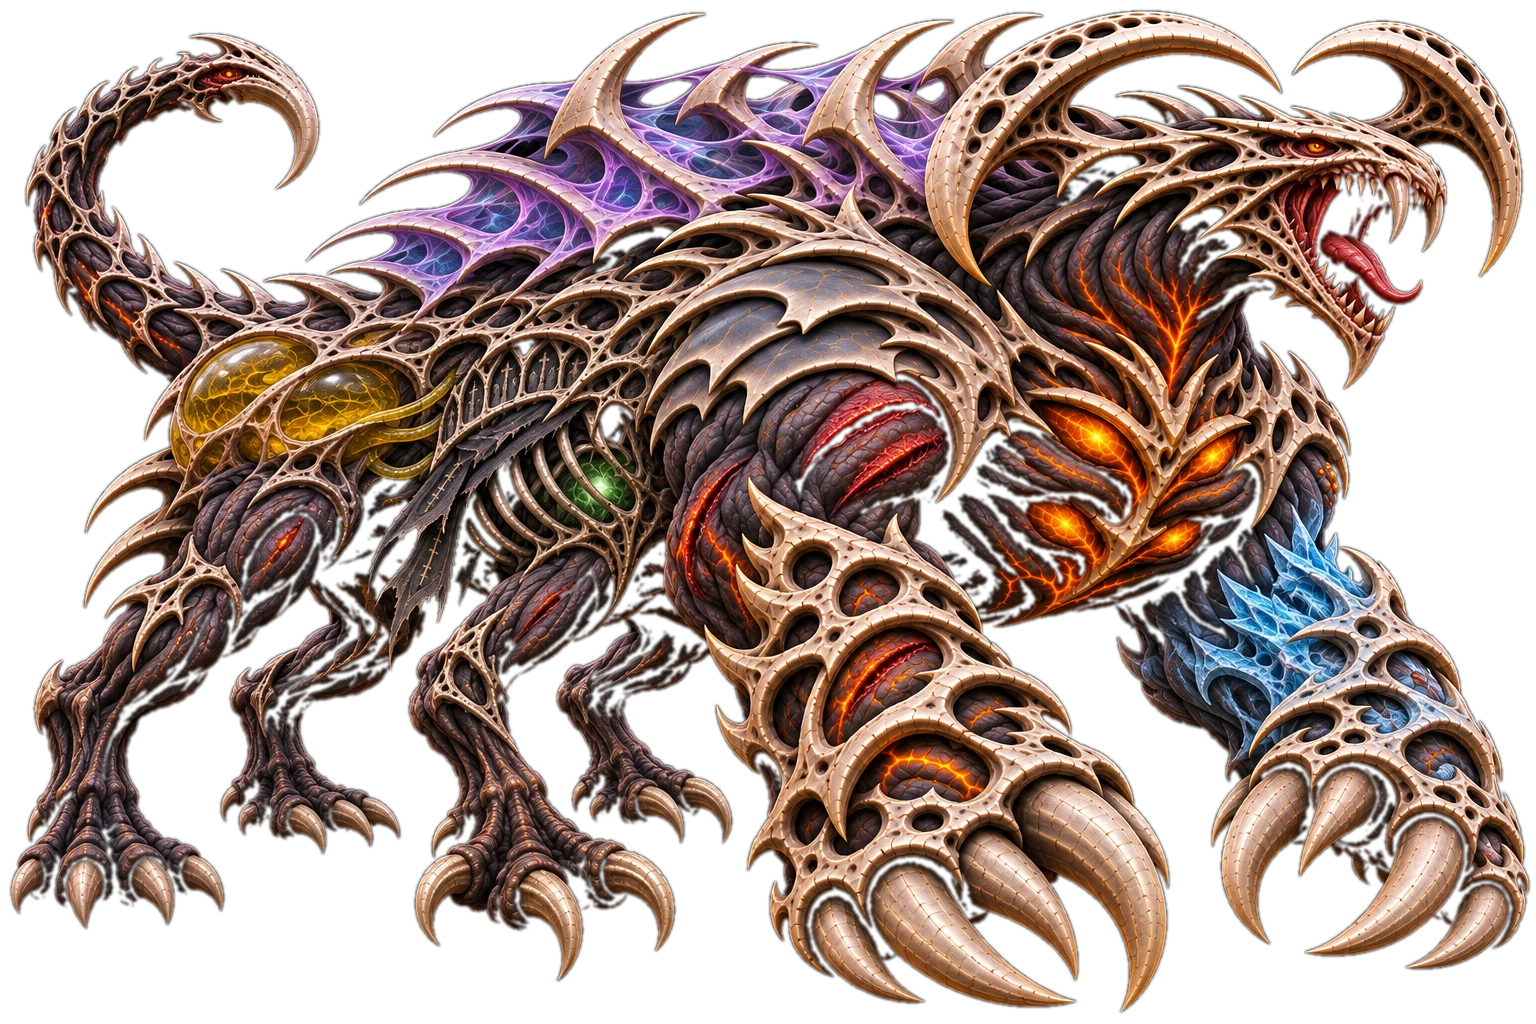
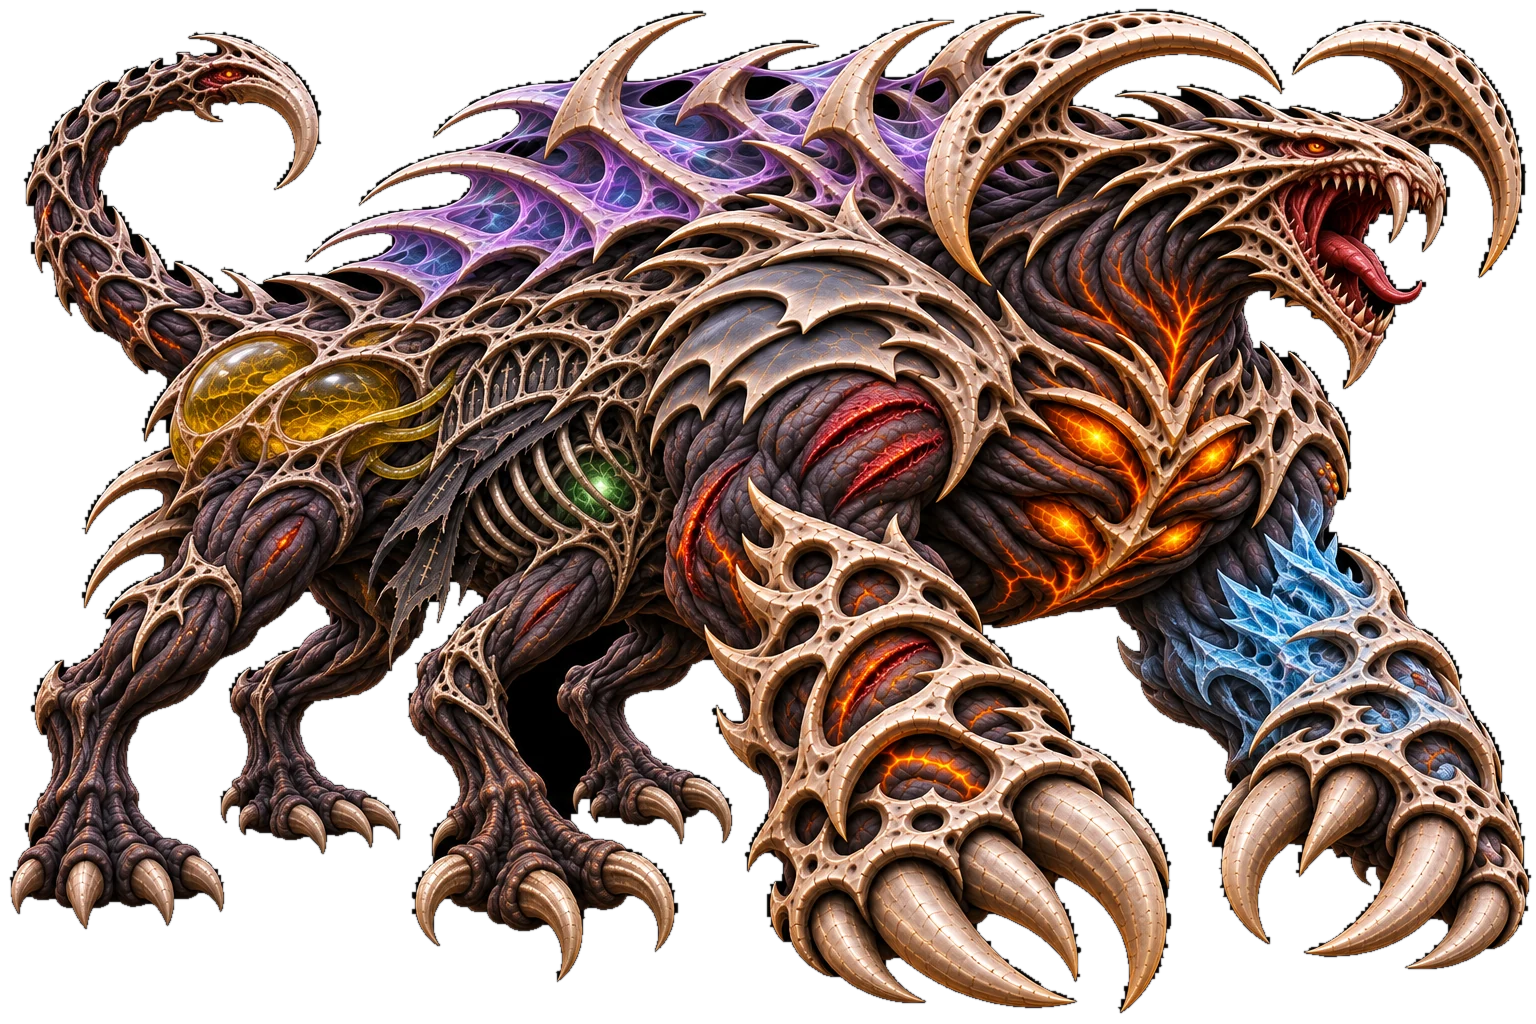
Preserve interior shadows in all twelve Brute portraits

diff --git a/table/battle-brute-hybrid-art.js b/table/battle-brute-hybrid-art.js
@@ -3,18 +3,18 @@
 const frenzied = 'brute-stage2-frenzied', ironhide = 'brute-stage2-ironhide', oppressor = 'brute-stage2-oppressor';
 const variants = [
   // Stage 3, variant, qualifying influence, canvas, measured alpha >= 128 bounds
-  ['oppressor', 'warped', { family: 'warped' }, [1536, 1024], [14, 4, 1531, 1017]],
-  ['oppressor', 'predator', { family: 'predator' }, [1536, 1024], [14, 5, 1523, 1015]],
-  ['oppressor', 'sibling', { artworks: [frenzied, ironhide] }, [1536, 1024], [17, 4, 1522, 1016]],
-  ['oppressor', 'ultimate', null, [1536, 1024], [11, 11, 1529, 1011]],
-  ['colossus', 'warped', { family: 'warped' }, [1536, 1024], [39, 19, 1494, 1008]],
-  ['colossus', 'predator', { family: 'predator' }, [1536, 1024], [19, 16, 1522, 1007]],
-  ['colossus', 'sibling', { artworks: [oppressor, frenzied] }, [1536, 1024], [38, 19, 1495, 1010]],
-  ['colossus', 'ultimate', null, [1536, 1024], [16, 14, 1526, 1015]],
-  ['ravager', 'warped', { family: 'warped' }, [1536, 1024], [14, 15, 1529, 1021]],
-  ['ravager', 'predator', { family: 'predator' }, [1774, 887], [10, 6, 1759, 887]],
-  ['ravager', 'sibling', { artworks: [oppressor, ironhide] }, [1536, 1024], [8, 12, 1533, 1020]],
-  ['ravager', 'ultimate', null, [1536, 1024], [26, 15, 1515, 984]],
+  ['oppressor', 'warped', { family: 'warped' }, [1536, 1024], [10, 2, 1534, 1017]],
+  ['oppressor', 'predator', { family: 'predator' }, [1536, 1024], [12, 0, 1526, 1016]],
+  ['oppressor', 'sibling', { artworks: [frenzied, ironhide] }, [1536, 1024], [16, 2, 1525, 1017]],
+  ['oppressor', 'ultimate', null, [1536, 1024], [10, 9, 1531, 1013]],
+  ['colossus', 'warped', { family: 'warped' }, [1536, 1024], [37, 17, 1495, 1009]],
+  ['colossus', 'predator', { family: 'predator' }, [1536, 1024], [16, 15, 1524, 1008]],
+  ['colossus', 'sibling', { artworks: [oppressor, frenzied] }, [1536, 1024], [37, 16, 1498, 1010]],
+  ['colossus', 'ultimate', null, [1536, 1024], [16, 12, 1527, 1016]],
+  ['ravager', 'warped', { family: 'warped' }, [1536, 1024], [13, 14, 1532, 1023]],
+  ['ravager', 'predator', { family: 'predator' }, [1774, 887], [7, 5, 1762, 887]],
+  ['ravager', 'sibling', { artworks: [oppressor, ironhide] }, [1536, 1024], [8, 10, 1536, 1023]],
+  ['ravager', 'ultimate', null, [1536, 1024], [25, 13, 1519, 987]],
 ];
 
 export const BRUTE_HYBRID_ART = variants.map(([form, variant, influence, [width, height], bounds]) => {

diff --git a/scripts/matte-opaque-art.py b/scripts/matte-opaque-art.py
@@ -15,6 +15,7 @@ size, and its silhouette (alpha >= 128) is printed for the registry.
 Usage (Pillow required): python3 scripts/matte-opaque-art.py <source> <destination.webp> [threshold]
 """
 
+import argparse
 import sys
 
 from PIL import Image, ImageChops, ImageDraw, ImageFilter, ImageOps
@@ -58,6 +59,28 @@ def matte(source: Image.Image, threshold: int = 22) -> Image.Image:
     return result
 
 
+def outline_matte(source: Image.Image, openings: list[tuple[int, int]]) -> Image.Image:
+    """Remove the black field and hand-identified openings of a dark-bodied creature."""
+    rgb = source.convert("RGB")
+    red, green, blue = rgb.split()
+    brightest = ImageChops.lighter(red, ImageChops.lighter(green, blue))
+    field = brightest.point(lambda value: 255 if value <= 6 else 0)
+    # Shrink before filling so a narrow crease cannot connect the field to the muscles.
+    frame = ImageOps.expand(field, border=4, fill=255)
+    core = frame.filter(ImageFilter.MinFilter(7))
+    ImageDraw.floodfill(core, (0, 0), BACKGROUND)
+    for x, y in openings:
+        seed = (x + 4, y + 4)
+        if not (0 <= x < rgb.width and 0 <= y < rgb.height) or core.getpixel(seed) != 255:
+            raise ValueError(f"opening {(x, y)} must lie inside an enclosed black field")
+        ImageDraw.floodfill(core, seed, BACKGROUND)
+    selected = core.point(lambda value: 255 if value == BACKGROUND else 0)
+    field = selected.filter(ImageFilter.MaxFilter(7)).crop((4, 4, rgb.width + 4, rgb.height + 4))
+    alpha = ImageOps.invert(field).filter(ImageFilter.GaussianBlur(0.65))
+    rgb.putalpha(alpha)
+    return rgb
+
+
 def silhouette(image: Image.Image) -> tuple[int, int, int, int]:
     box = image.getchannel("A").point(lambda value: 255 if value >= 128 else 0).getbbox()
     if box is None:
@@ -66,9 +89,18 @@ def silhouette(image: Image.Image) -> tuple[int, int, int, int]:
 
 
 def main(arguments: list[str]) -> None:
-    source, destination = arguments[0], arguments[1]
-    threshold = int(arguments[2]) if len(arguments) > 2 else 22
-    result = matte(Image.open(source), threshold)
+    parser = argparse.ArgumentParser(description=__doc__)
+    parser.add_argument("source")
+    parser.add_argument("destination")
+    parser.add_argument("threshold", type=int, nargs="?", default=22)
+    parser.add_argument("--outline", action="store_true", help="preserve enclosed shadows on a black master")
+    parser.add_argument("--opening", type=int, nargs=2, action="append", default=[], metavar=("X", "Y"))
+    args = parser.parse_args(arguments)
+    if args.opening and not args.outline:
+        parser.error("--opening requires --outline")
+    destination = args.destination
+    with Image.open(args.source) as source:
+        result = outline_matte(source, args.opening) if args.outline else matte(source, args.threshold)
     result.save(destination, "WEBP", quality=88, method=6, alpha_quality=100)
     left, top, right, bottom = silhouette(result)
     print(f"{destination} {result.width}x{result.height} bounds [{left}, {top}, {right}, {bottom}]")

diff --git a/scripts/check-brute-portrait-alpha.py b/scripts/check-brute-portrait-alpha.py
@@ -1,0 +1,41 @@
+"""Check the alpha of known muscle shadows and openings in the shipped Brute WebPs."""
+
+from pathlib import Path
+
+from PIL import Image
+
+PORTRAITS = Path(__file__).resolve().parents[1] / "table/battle-art/evolutions/hybrids"
+
+# Coordinates on the approved masters. These dark body samples disappeared in the first export.
+# The optional openings show the battlefield through a gap enclosed by legs or horns.
+SAMPLES = [
+    ("oppressor-warped", (444, 566), [(1134, 62), (1356, 80)]),
+    ("oppressor-predator", (572, 545), []),
+    ("oppressor-sibling", (412, 579), []),
+    ("oppressor-ultimate", (934, 532), []),
+    ("colossus-warped", (1099, 636), [(763, 757)]),
+    ("colossus-predator", (403, 618), []),
+    ("colossus-sibling", (511, 447), [(765, 762)]),
+    ("colossus-ultimate", (415, 560), [(823, 797), (470, 757)]),
+    ("ravager-warped", (809, 629), []),
+    ("ravager-predator", (1259, 472), [(1319, 664)]),
+    ("ravager-sibling", (1046, 568), []),
+    ("ravager-ultimate", (1098, 506), []),
+]
+
+
+def check() -> None:
+    for name, shadow, openings in SAMPLES:
+        with Image.open(PORTRAITS / f"brute-{name}.webp") as image:
+            alpha = image.getchannel("A")
+            samples = [(shadow, 255), ((1, 1), 0)]
+            samples.extend((point, 0) for point in openings)
+            for point, expected in samples:
+                x, y = point
+                values = alpha.crop((x - 1, y - 1, x + 2, y + 2)).getextrema()
+                if values != (expected, expected):
+                    raise ValueError(f"{name} at {point}: expected alpha {expected}, found {values}")
+
+
+if __name__ == "__main__":
+    check()

diff --git a/docs/art/brute-hybrid-aaa-intake.md b/docs/art/brute-hybrid-aaa-intake.md
@@ -21,3 +21,14 @@ breaks ties within a rank. A creature with only the prerequisite line displays i
 The Ravager × Predator master uses the corrected side-view layout with three legs on each flank. The
 [portrait polish guide](hybrid-portrait-polish.md) covers the matte and export.
 `table/battle-brute-hybrid-art.js` records each final canvas and its measured alpha-128 bounds for combat placement.
+
+### Exporting the Brute silhouettes
+
+These black-background masters also use near-black shadows in the muscles and under the armour.
+Export them with `scripts/matte-opaque-art.py SOURCE DESTINATION --outline`.
+For openings enclosed by horns or legs, append `--opening X Y` once per opening. The approved
+coordinates for each portrait are in `scripts/check-brute-portrait-alpha.py`.
+
+Run `python3 scripts/check-brute-portrait-alpha.py` against the encoded WebPs. It samples the
+previously lost body shadows, the exterior and the enclosed openings. Inspect all twelve on a light
+checkerboard at battle size when changing a master, and update the silhouette bounds in the registry.
